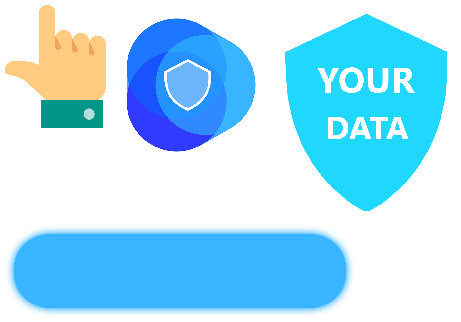
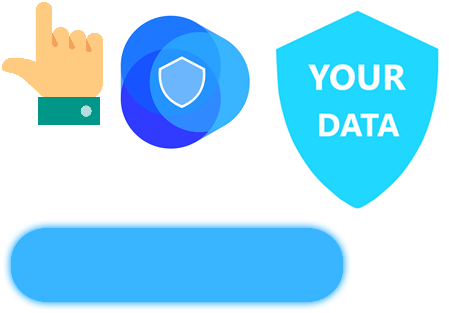
Update data sprite. Update final text resolution

diff --git a/src/states/Final.js b/src/states/Final.js
@@ -66,6 +66,8 @@ export default class extends Phaser.State {
       .delay(Phaser.Timer.SECOND * 1.4)
       .chain(btnIdle)
       .start()
+    
+    message.resolution = 2
 
     function ctaHandler () {
       if (typeof FbPlayableAd !== 'undefined' && FbPlayableAd.onCTAClick) {
